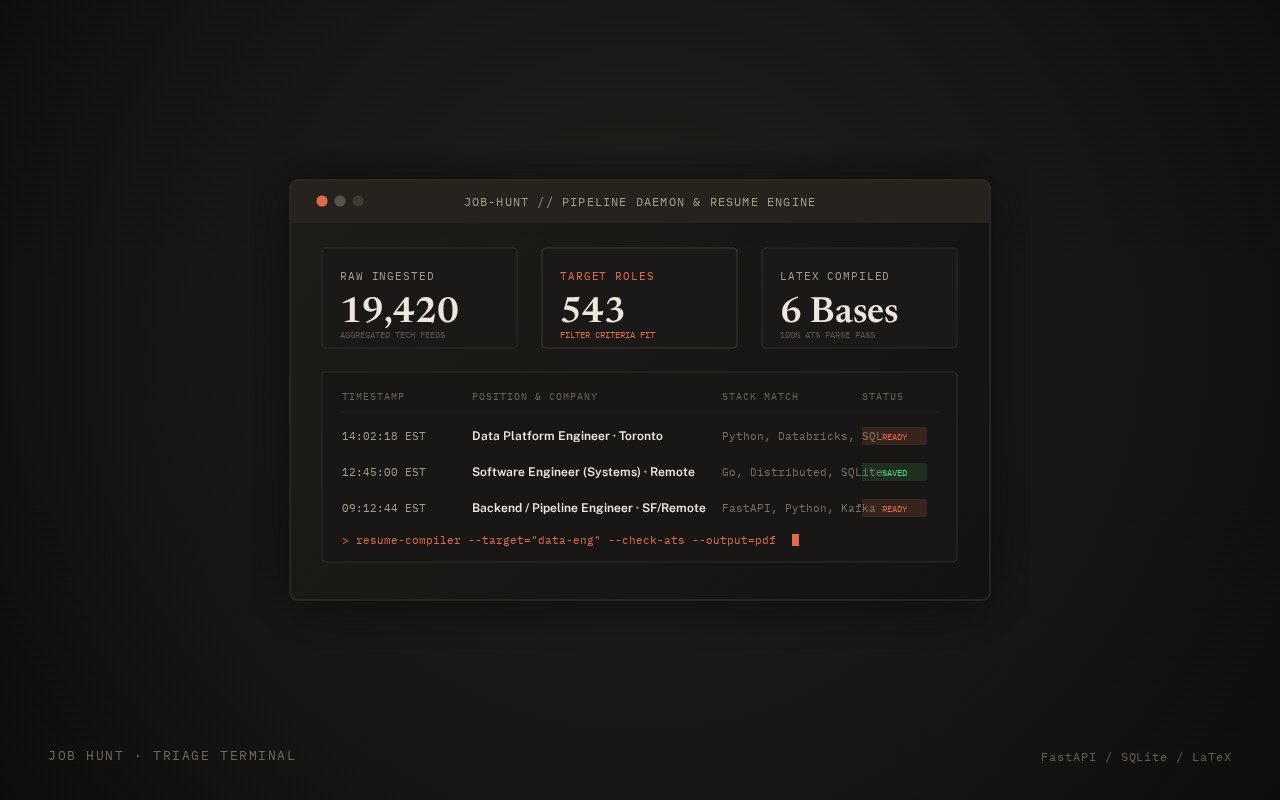
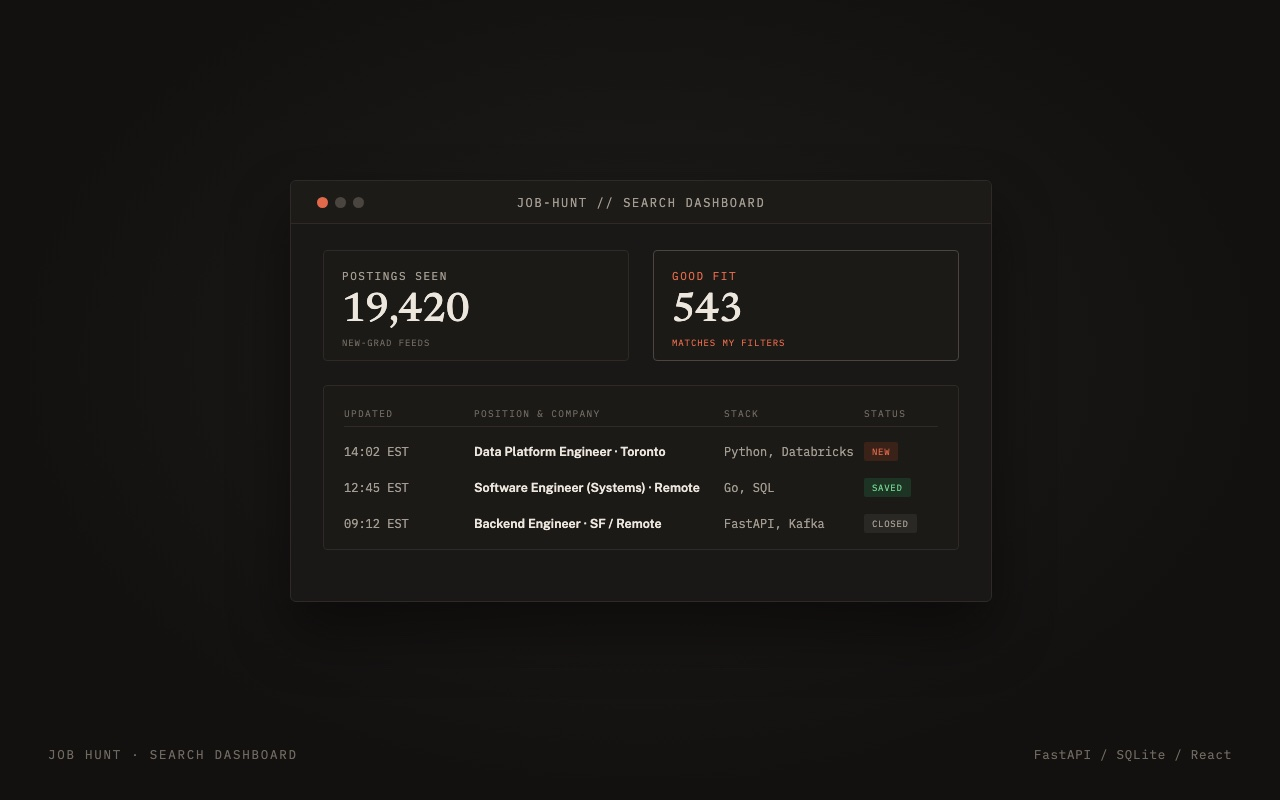
Tone down the Job Hunt project page
Changed:
- Intro, meta description and "Where it's at" now describe a personal search dashboard
- New cover image without the resume engine and LaTeX details
- Stack lists drop LaTeX

Removed:
- Resume engine bullet from "What I built"

diff --git a/projects/job-hunt.html b/projects/job-hunt.html
@@ -4,7 +4,7 @@
     <meta charset="UTF-8" />
     <meta name="viewport" content="width=device-width, initial-scale=1.0" />
     <title>Job Hunt · Zarif Ahmed</title>
-    <meta name="description" content="Job Hunt: A job search pipeline and resume engine built by Zarif Ahmed with Python, FastAPI, SQLite, React, and LaTeX." />
+    <meta name="description" content="Job Hunt: A personal job search dashboard built by Zarif Ahmed with Python, FastAPI, SQLite and React." />
     <link rel="canonical" href="https://zarif2142.github.io/projects/job-hunt.html" />
 
     <meta property="og:title" content="Job Hunt · Zarif Ahmed" />
@@ -53,7 +53,7 @@
             </div>
             <div class="facts-group">
               <div class="facts-label">Stack</div>
-              <div class="facts-value-mono">Python, FastAPI, SQLite, React, LaTeX, pytest</div>
+              <div class="facts-value-mono">Python, FastAPI, SQLite, React, pytest</div>
             </div>
             <div class="facts-group">
               <div class="facts-label">Links</div>
@@ -67,12 +67,12 @@
           <div class="reading-column">
             <header class="project-header-intro">
               <h1 class="project-page-title">Job Hunt</h1>
-              <p class="project-page-intro">A job search pipeline and resume engine I built for my own search.</p>
+              <p class="project-page-intro">A personal dashboard I built to keep my job search organized.</p>
             </header>
 
             <figure class="project-figure">
               <div class="img-frame" data-file="job-hunt-cover.jpg" style="--aspect: 16/10;">
-                <img src="../assets/img/job-hunt-cover.jpg" alt="Job Hunt application overview" width="680" height="425" loading="eager" onerror="this.style.display='none'" />
+                <img src="../assets/img/job-hunt-cover.jpg?v=2" alt="Job Hunt application overview" width="680" height="425" loading="eager" onerror="this.style.display='none'" />
               </div>
               <figcaption class="mono-caption">React triage board organizing parsed opportunities and tracking active applications.</figcaption>
             </figure>
@@ -87,14 +87,13 @@
               <ul class="project-body-list">
                 <li>A pipeline in Python, FastAPI and SQLite that pulls in the 19,000-posting feed, filters it down to the 543 roles that fit, and tracks when each one opens and closes.</li>
                 <li>A React dashboard for going through them, saving them and tracking applications.</li>
-                <li>A resume engine that compiles a bank of bullet points written in TOML into LaTeX, producing 6 base resumes plus versions for specific jobs. A fact-check refuses any number that isn't in a wording I've approved, and every PDF is checked to make sure applicant tracking systems can read it.</li>
               </ul>
             </section>
 
 
             <section class="project-body-section">
               <h2 class="project-subhead">Where it's at</h2>
-              <p>It runs every day and it's how I'm doing my search right now.</p>
+              <p>I use it every day to keep track of my own search.</p>
             </section>
           </div>
         </article>

diff --git a/index.html b/index.html
@@ -199,13 +199,13 @@
                   <div class="project-info">
                     <h3 class="project-title"><a href="projects/job-hunt.html">Job Hunt</a></h3>
                     <div class="project-hook">A personal dashboard for tracking my job search.</div>
-                    <div class="project-tech">Python · FastAPI · SQLite · React · LaTeX</div>
+                    <div class="project-tech">Python · FastAPI · SQLite · React</div>
                     <div class="project-links">
                       <a href="projects/job-hunt.html" class="project-link-item">Read more &rarr;</a>
                     </div>
                   </div>
                   <figure class="img-frame" data-file="job-hunt-cover.jpg" style="--aspect: 16/10;">
-                    <img src="assets/img/job-hunt-cover.jpg" alt="Job Hunt dashboard cover preview" width="240" height="150" loading="lazy" onerror="this.style.display='none'" />
+                    <img src="assets/img/job-hunt-cover.jpg?v=2" alt="Job Hunt dashboard cover preview" width="240" height="150" loading="lazy" onerror="this.style.display='none'" />
                   </figure>
                 </article>
               </div>
